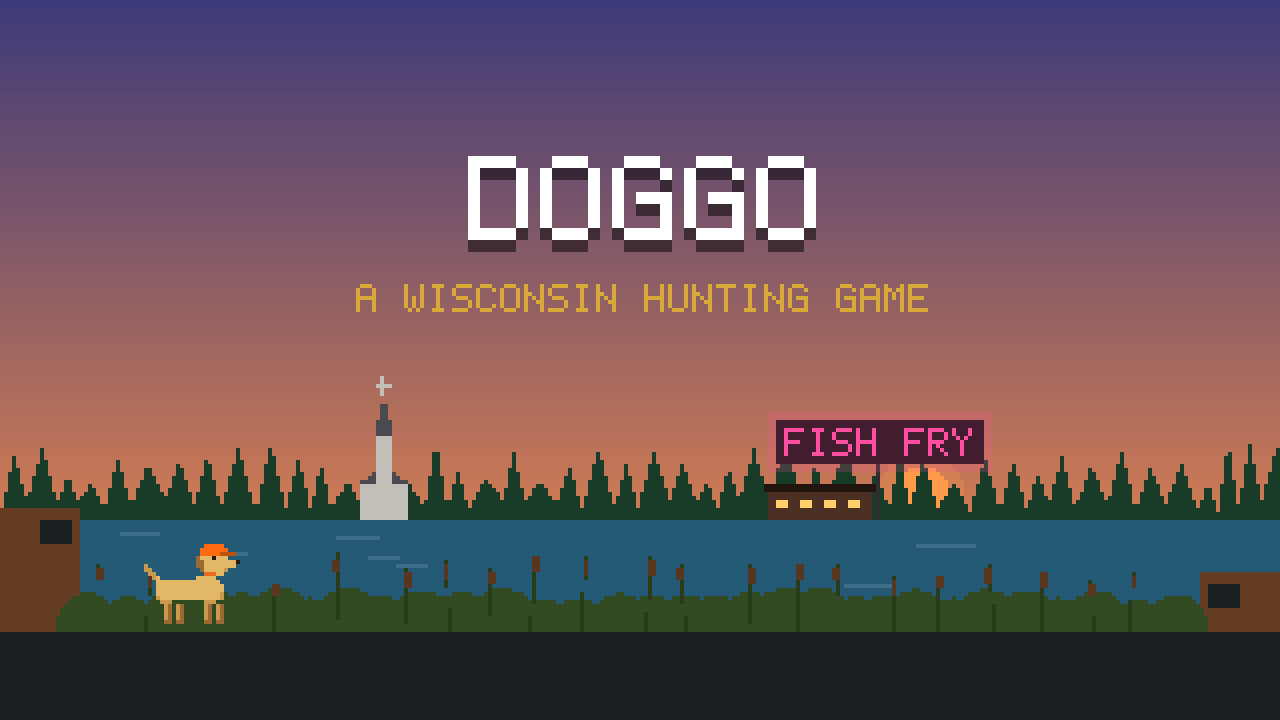
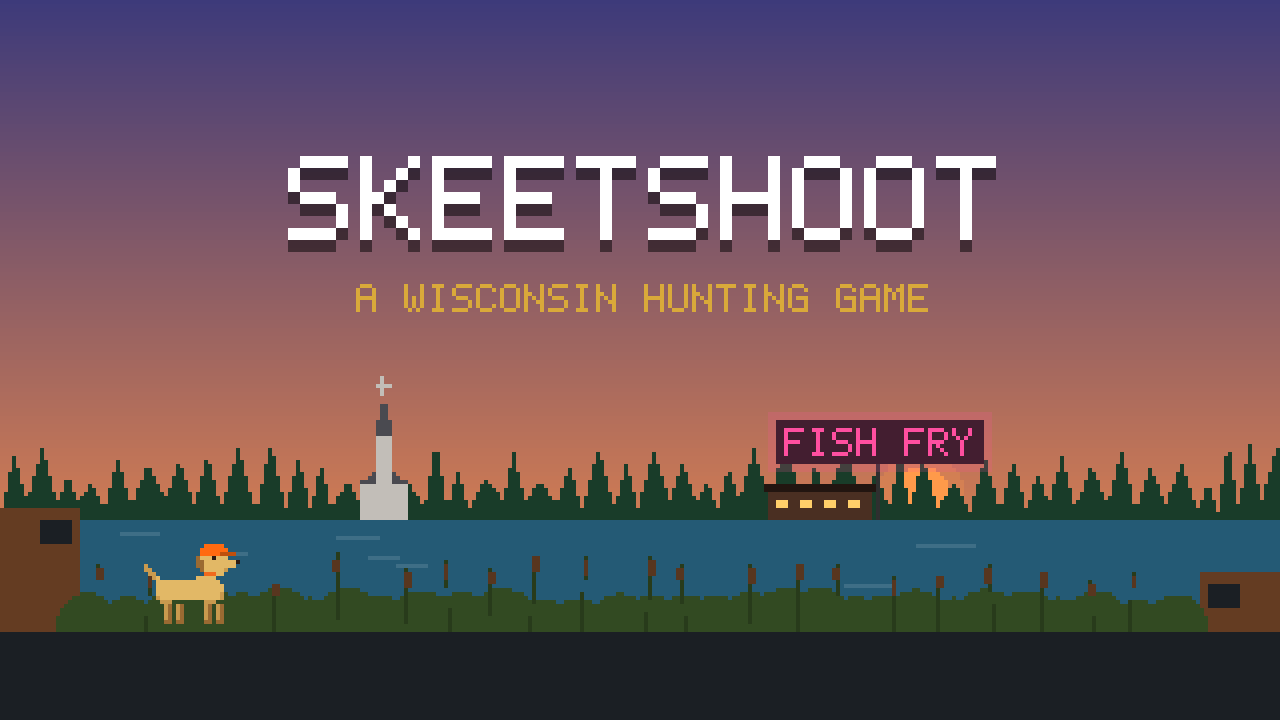
Update the web version

Changed region(s): [[0.2188, 0.2139, 0.7812, 0.3667]]

diff --git a/index.html b/index.html
@@ -3,7 +3,7 @@
 	<head>
 		<meta charset="utf-8">
 		<meta name="viewport" content="width=device-width, user-scalable=no, initial-scale=1.0">
-		<title>Doggo</title>
+		<title>SkeetShoot</title>
 		<style>
 html, body, #canvas {
 	margin: 0;
@@ -111,7 +111,7 @@ body {
 
 		<script src="index.js"></script>
 		<script>
-const GODOT_CONFIG = {"args":[],"canvasResizePolicy":2,"emscriptenPoolSize":8,"ensureCrossOriginIsolationHeaders":true,"executable":"index","experimentalVK":false,"fileSizes":{"index.pck":126148,"index.wasm":39514754},"focusCanvas":true,"gdextensionLibs":[],"godotPoolSize":4};
+const GODOT_CONFIG = {"args":[],"canvasResizePolicy":2,"emscriptenPoolSize":8,"ensureCrossOriginIsolationHeaders":true,"executable":"index","experimentalVK":false,"fileSizes":{"index.pck":127076,"index.wasm":39514754},"focusCanvas":true,"gdextensionLibs":[],"godotPoolSize":4};
 const GODOT_THREADS_ENABLED = false;
 const engine = new Engine(GODOT_CONFIG);
 

diff --git a/README.md b/README.md
@@ -1,5 +1,5 @@
-# Doggo
+# SkeetShoot
 
-Doggo: Retro Duck Hunting, a Wisconsin hunting game in 8-bit style. Play it at https://gvht8jypmy-blip.github.io/doggo/
+SkeetShoot, a Wisconsin hunting game in 8-bit style. Play it at https://gvht8jypmy-blip.github.io/skeetshoot/
 
 This repo holds only the playable web build.
